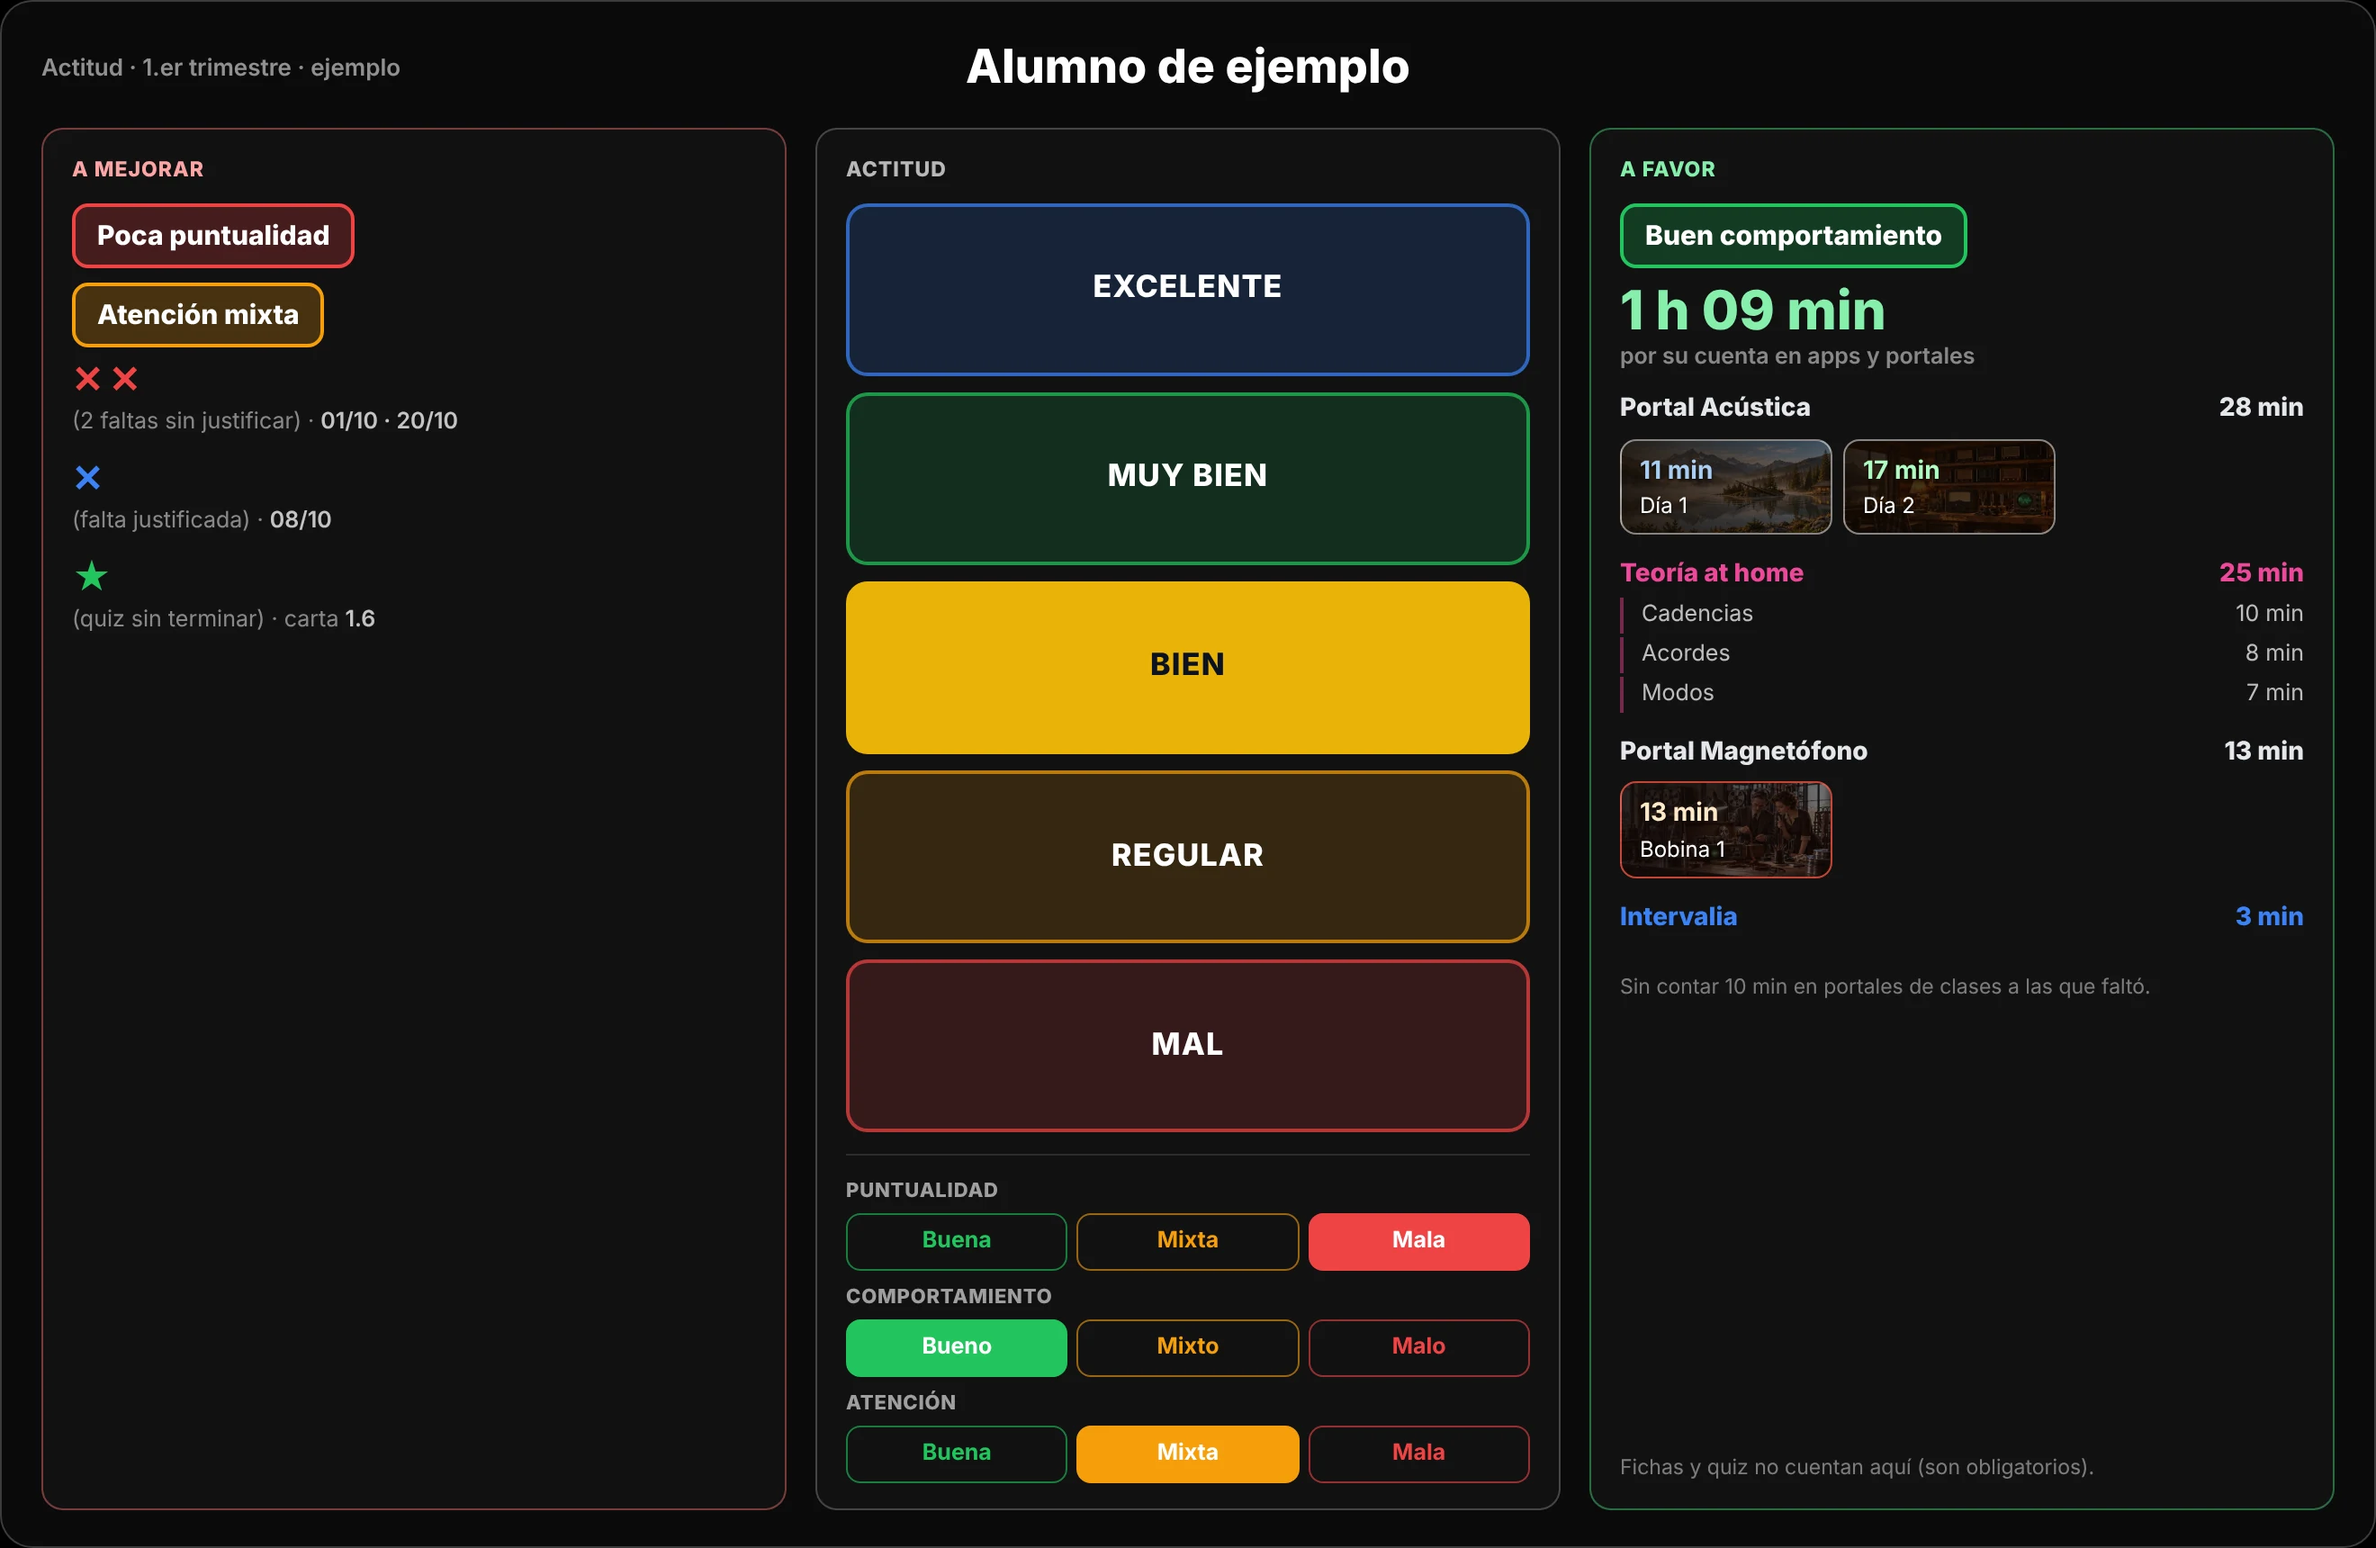
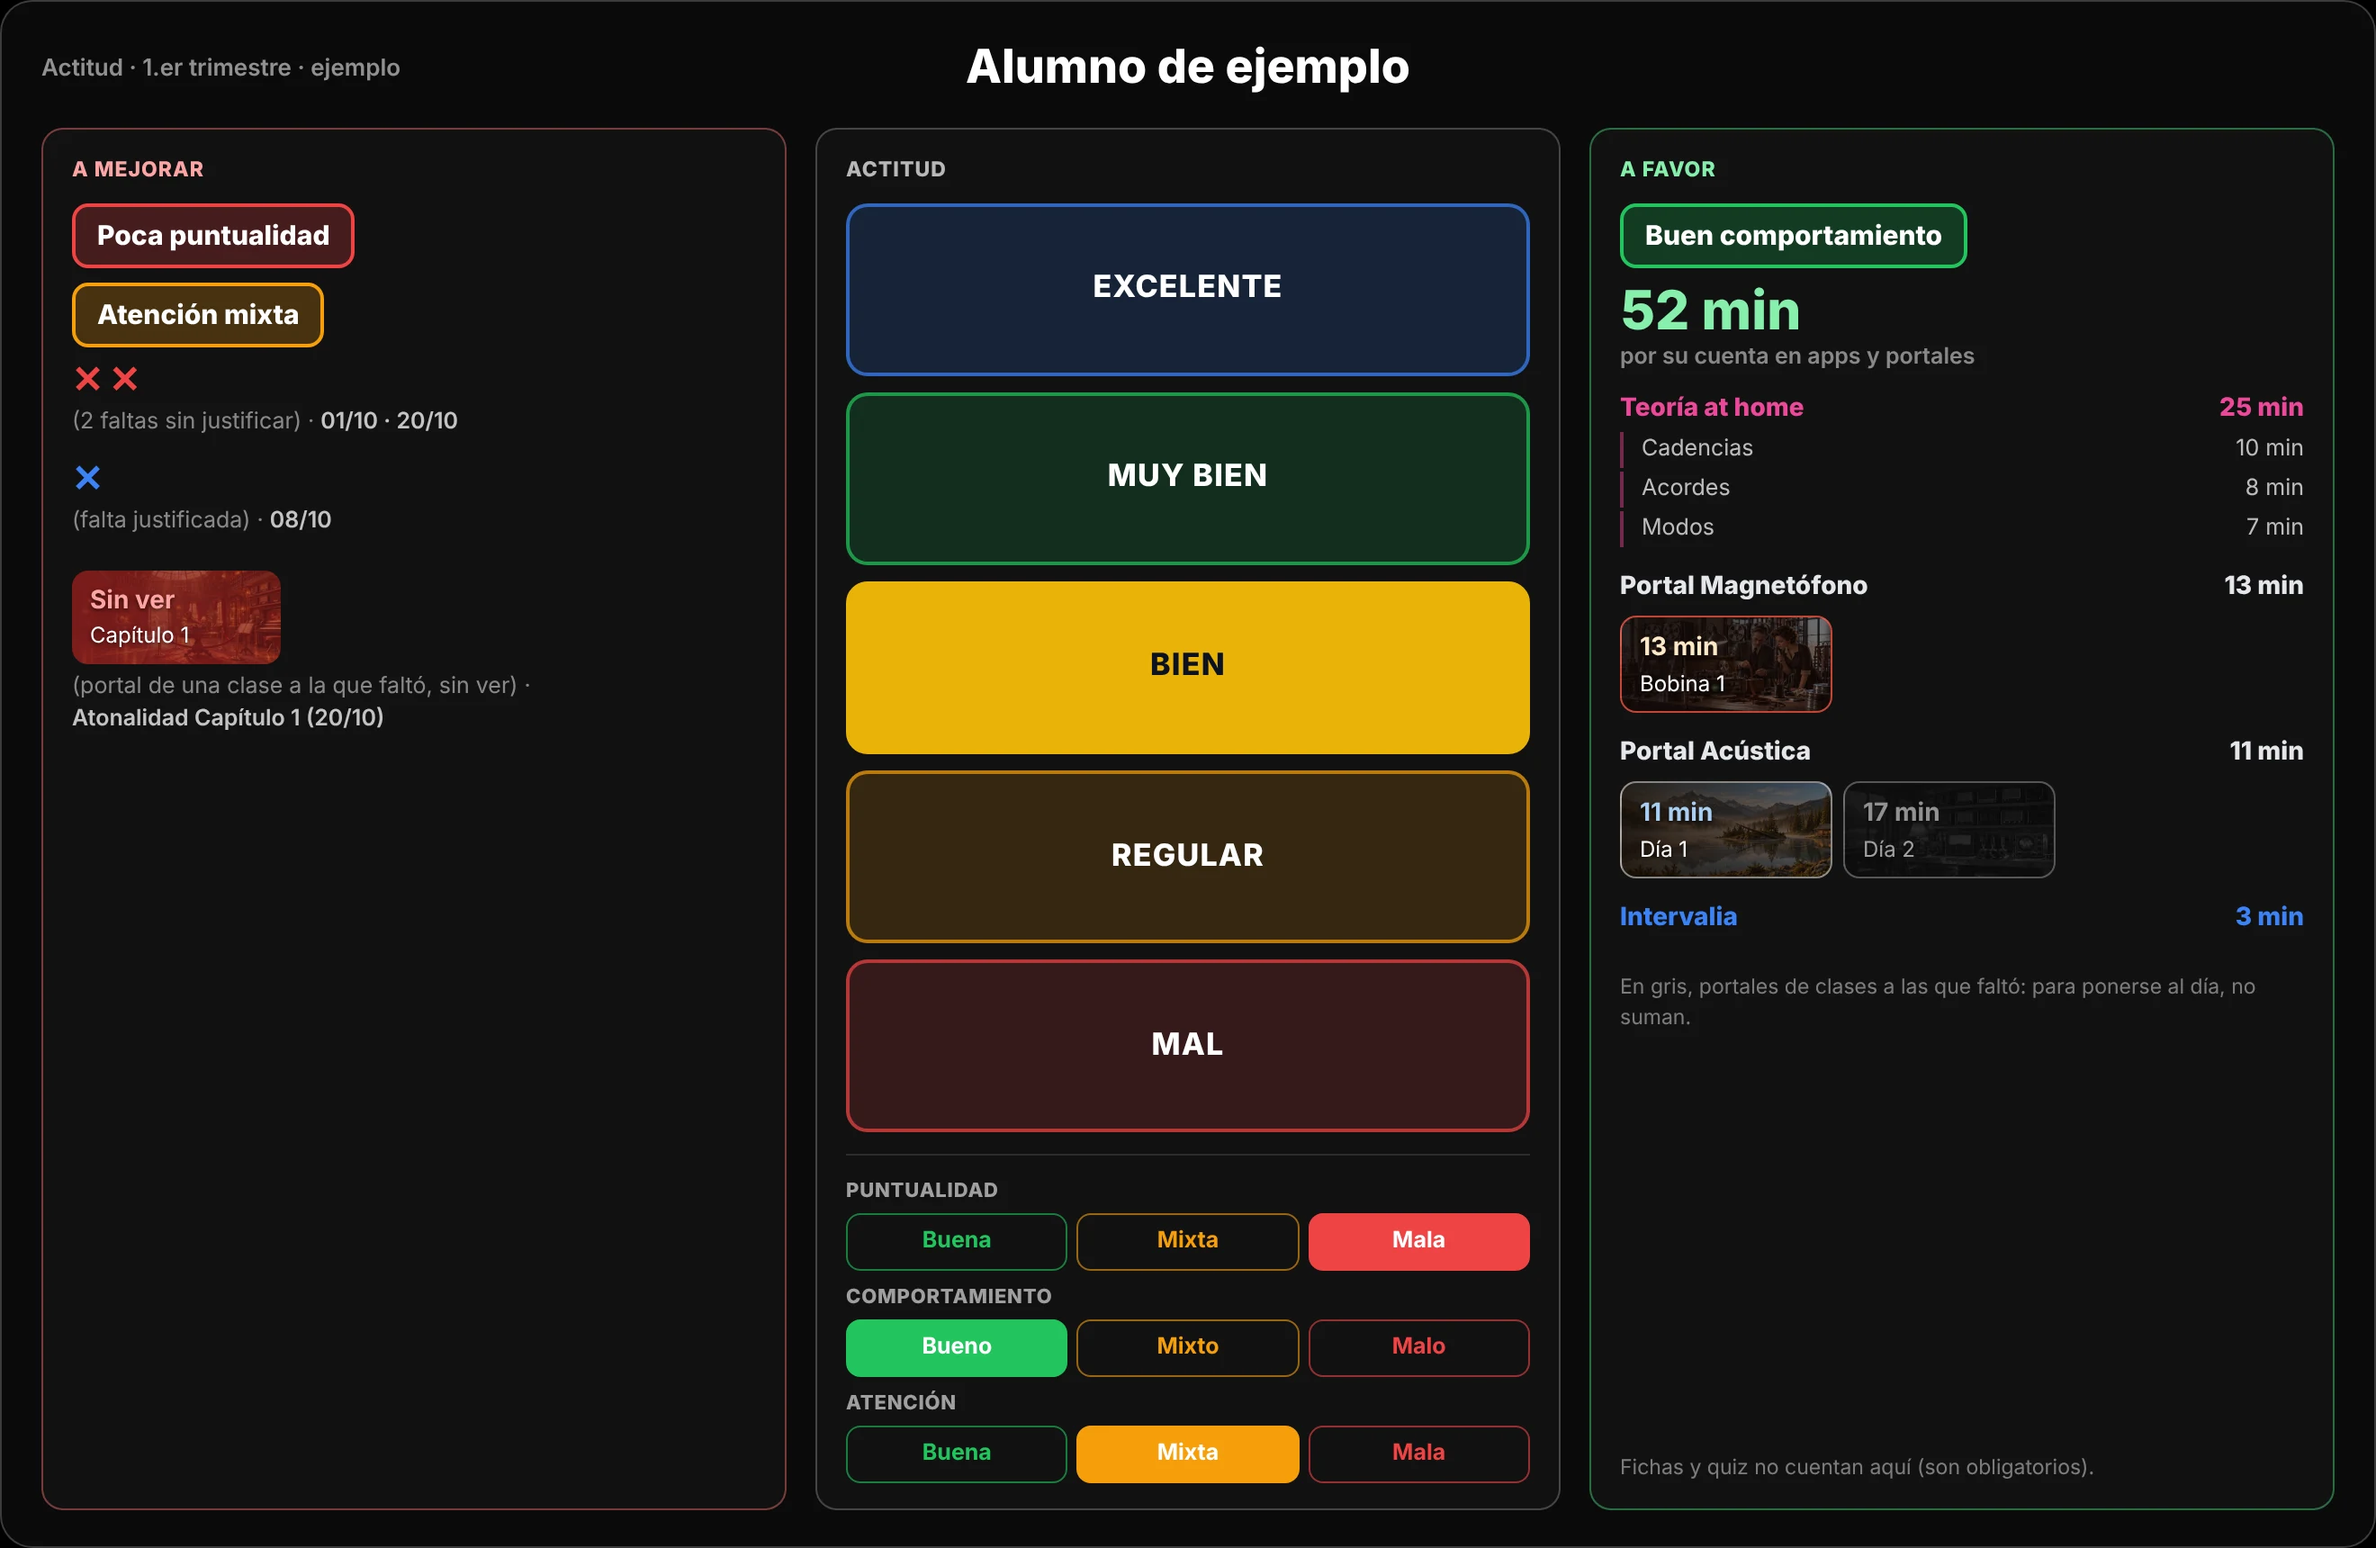
Avisos: ejemplo de actitud GP con portales de clases faltadas (gris / rojo) (12-nov, Iago)

diff --git a/piel/avisos/actitud-ejemplo-gp.html b/piel/avisos/actitud-ejemplo-gp.html
@@ -7,4 +7,4 @@ html,body{margin:0;height:100%;background:#000}
 body{display:flex;align-items:center;justify-content:center;box-sizing:border-box;padding:2.5vh 2vw}
 img{max-width:100%;max-height:100%;object-fit:contain;display:block}
 </style></head>
-<body><img src="actitud-ejemplo-gp.webp?v=1" alt="Ejemplo de un alumno ficticio: a mejorar, poca puntualidad, atención mixta, dos faltas sin justificar y un quiz sin terminar; a favor, buen comportamiento y tiempo por su cuenta en apps y portales. Actitud: bien."></body></html>
+<body><img src="actitud-ejemplo-gp.webp?v=2" alt="Ejemplo de un alumno ficticio: a mejorar, poca puntualidad, atención mixta, faltas y un portal de una clase a la que faltó sin ver; a favor, buen comportamiento, tiempo por su cuenta y, en gris, lo que vio para ponerse al día. Actitud: bien."></body></html>

diff --git a/piel/avisos/actitud-ejemplo-ge.html b/piel/avisos/actitud-ejemplo-ge.html
@@ -7,4 +7,4 @@ html,body{margin:0;height:100%;background:#000}
 body{display:flex;align-items:center;justify-content:center;box-sizing:border-box;padding:2.5vh 2vw}
 img{max-width:100%;max-height:100%;object-fit:contain;display:block}
 </style></head>
-<body><img src="actitud-ejemplo-ge.webp?v=1" alt="Ejemplo de un alumno ficticio: a mejorar, poca puntualidad, atención mixta, dos faltas sin justificar y un quiz sin terminar; a favor, buen comportamiento y tiempo por su cuenta en apps y portales. Actitud: bien."></body></html>
+<body><img src="actitud-ejemplo-ge.webp?v=2" alt="Ejemplo de un alumno ficticio: a mejorar, poca puntualidad, atención mixta, dos faltas sin justificar y un quiz sin terminar; a favor, buen comportamiento y tiempo por su cuenta en apps y portales. Actitud: bien."></body></html>
